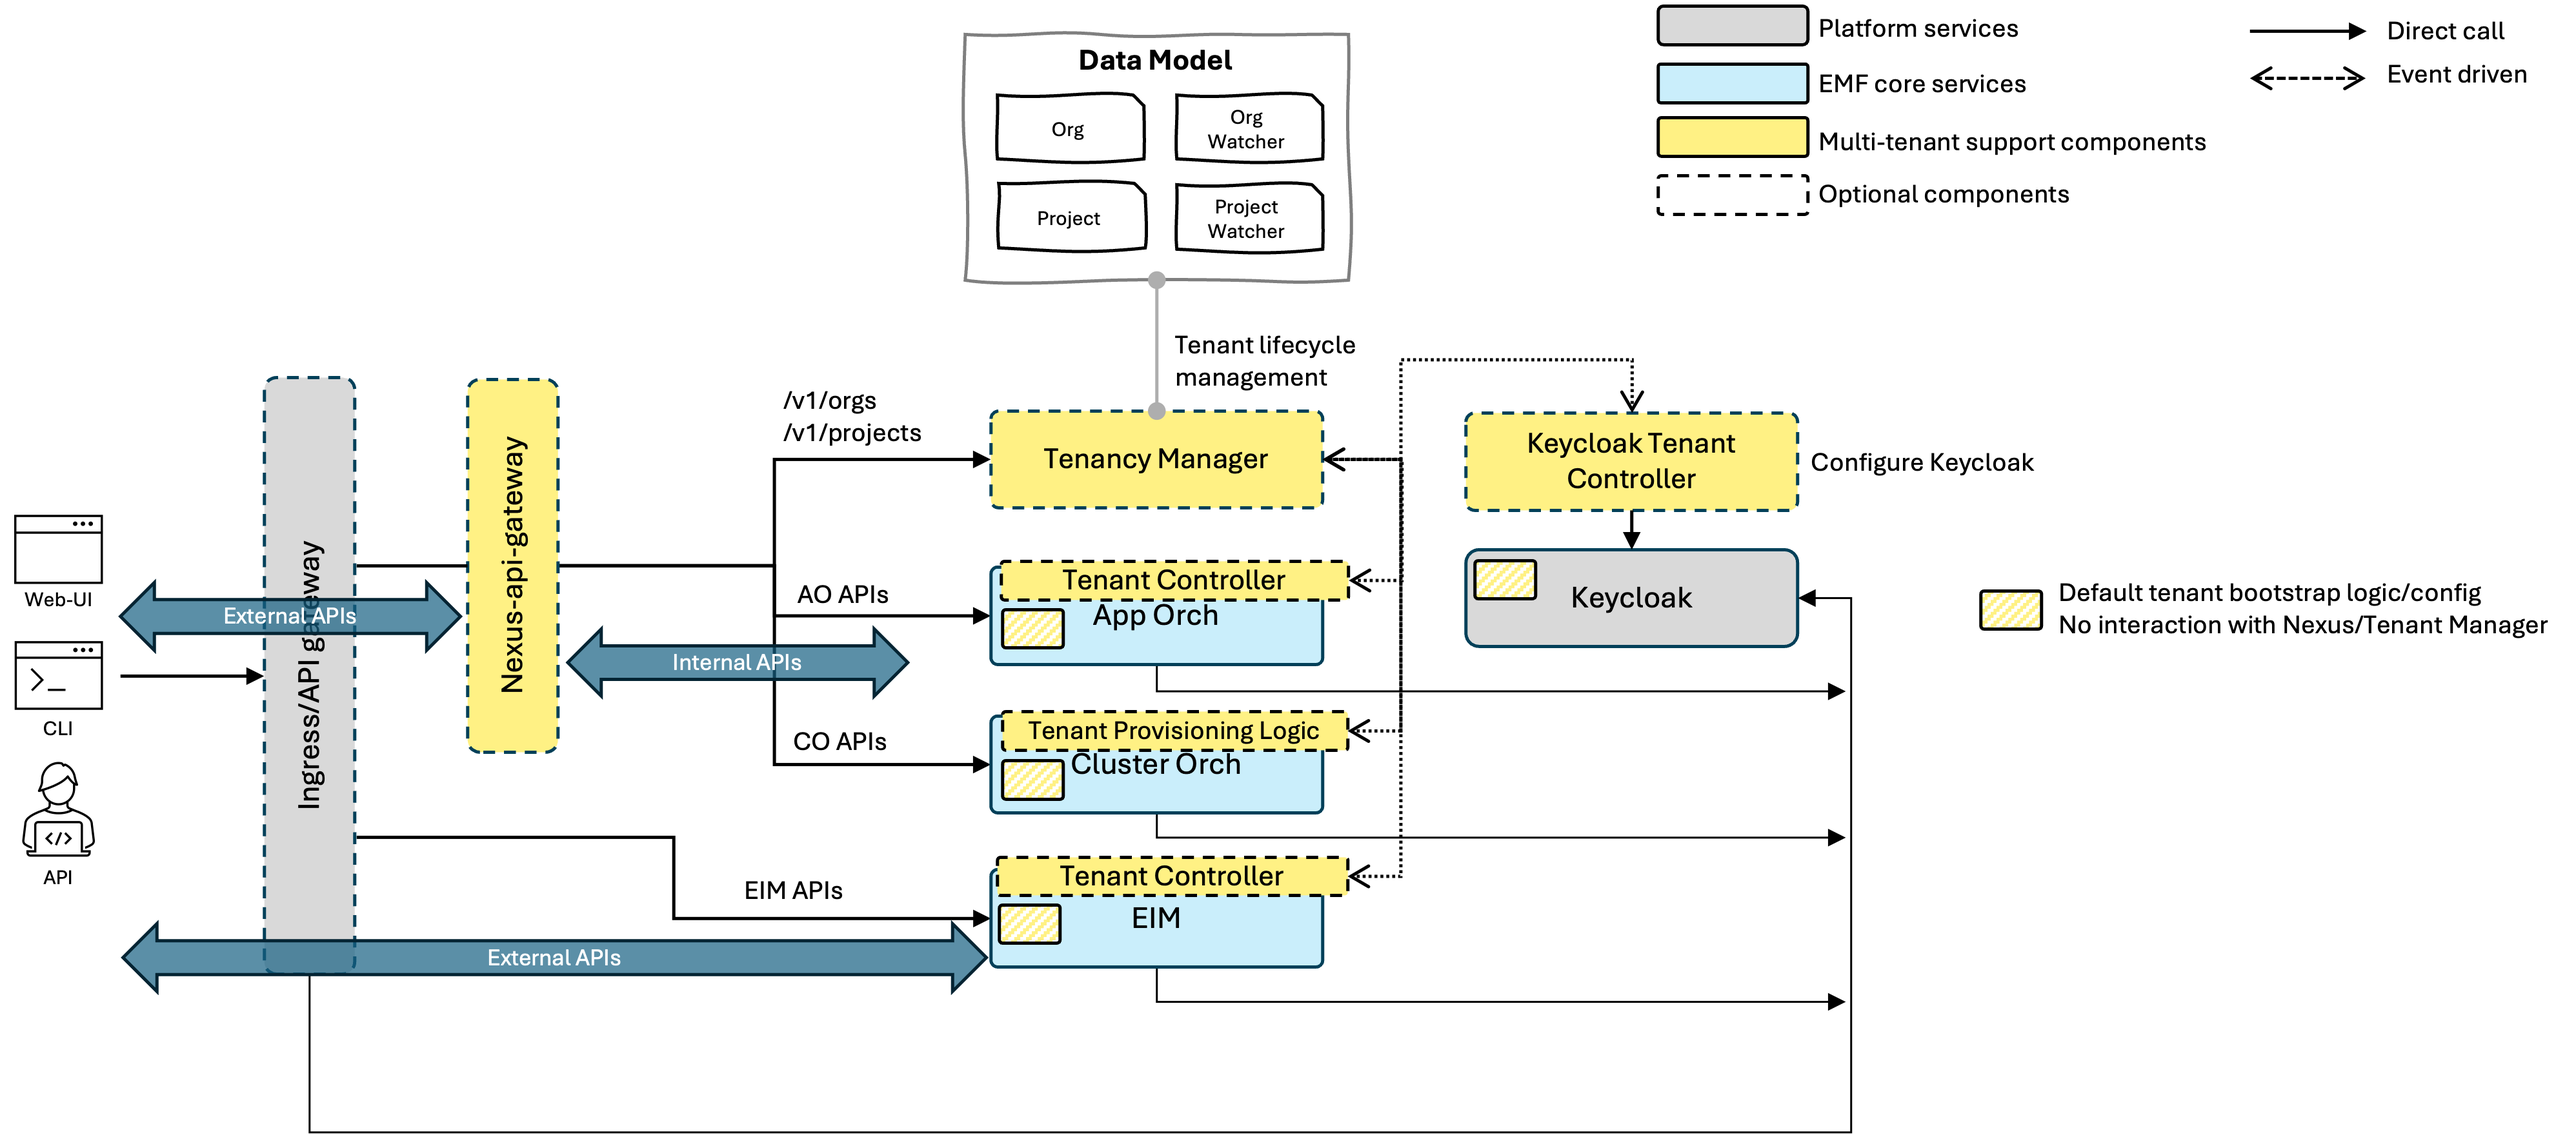
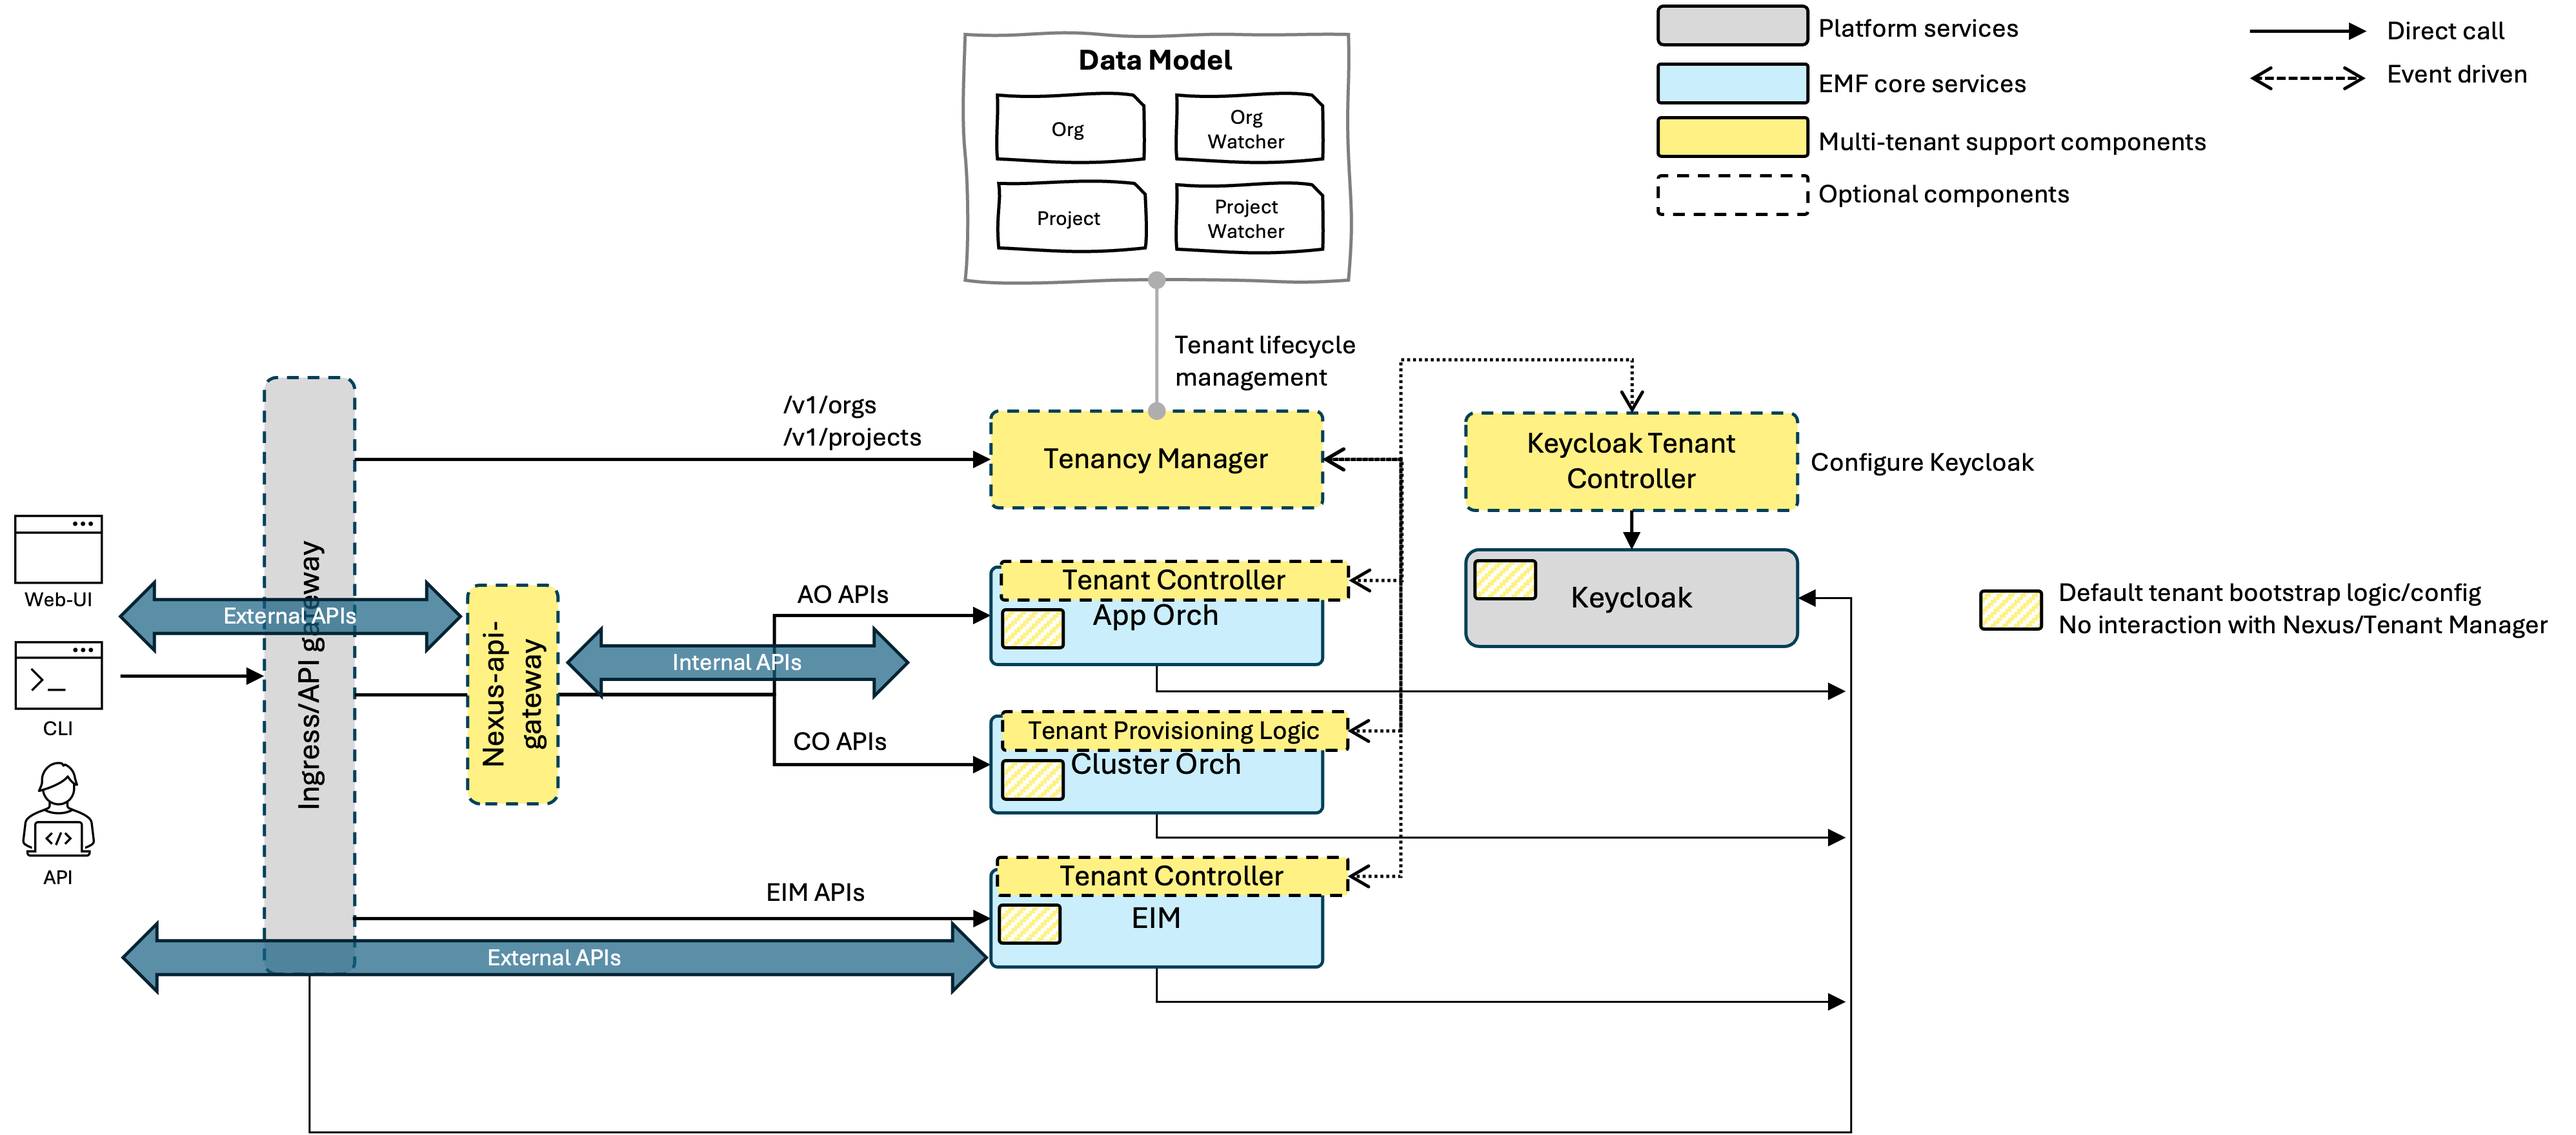
Priority update for tenant-manager NB implementation

Changed region(s): [[0.1553, 0.3125, 0.3106, 0.7188], [0.2796, 0.3438, 0.3727, 0.4062], [0.2796, 0.7812, 0.3417, 0.8125]]

diff --git a/design-proposals/platform-multi-tenancy-simplification.md b/design-proposals/platform-multi-tenancy-simplification.md
@@ -56,15 +56,12 @@ The current EMF architecture exhibits several key issues:
 
 ![new architecture](images/multi-tenancy-new-architecture.png)
 
-The proposed architecture is modular and flexible, focusing on these key changes:
+The proposed architecture introduces modularity and deployment flexibility through the following changes:
 
-- The Multi-tenant API Gateway is simplified to act only as an HTTP router for Tenant Manager APIs. In the short term,
-  it remains Nexus-based, with plans to re-implement it as a lightweight HTTP router in the future.
-- Core services (AO, CO, EIM) expose their APIs directly, removing the need for centralized API gateway coordination.
-- Multi-tenancy is configurable; Tenant Manager and controllers can be enabled or disabled per deployment.
-- When multi-tenancy is off, services initialize a default tenant and restrict API requests to the default project for
-  consistent logic.
-- Backward compatibility is maintained for seamless upgrades from existing multi-tenant deployments.
+- Elimination of the Multi-tenant API Gateway, allowing direct API exposure for all core services (App Orchestration, Cluster Orchestration, Infra Manager, Tenant Manager).
+- Multi-tenancy features are now optional and configurable; Tenant Manager and related controllers can be enabled or disabled based on deployment needs.
+- In single-tenant mode, services automatically provision a default tenant and project, ensuring consistent request handling without tenant management overhead.
+- Backward compatibility is preserved, enabling seamless upgrades for existing multi-tenant environments.
 
 This modular approach enables organizations to deploy EMF in single-tenant or multi-tenant modes, reducing complexity
 and adapting to varied infrastructure needs. Below are examples of how the new modular architecture enables flexible
@@ -107,16 +104,13 @@ unnecessary, offering a lightweight and efficient integration path.
 
 ### Core Changes
 
-#### Track 1: Reduce the scope of nexus-api-gateway
+#### Track 1: Remove nexus-api-gateway
 
-- Limit the nexus-api-gateway’s responsibility to routing only Tenant Manager APIs (`/v1/orgs`, `/v1/projects`).
-- Remove all API remapping configuration from nexus-api-gateway.
-- Add Traefik IngressRoute for EIM, AO, and CO APIs, allowing these services to expose their APIs directly.
-- Ensure that tenant-aware authentication and authorization are handled by the shared middleware (`orch-lib`) in each
-  service, not by the gateway.
-- Gradually deprecate legacy gateway features as services transition to direct API exposure.
-- Validate that existing multi-tenant workflows continue to function as expected through integration and regression
-  testing.
+- Develop RESTful API endpoints for Tenant Manager (`/v1/orgs`, `/v1/projects`).
+- Configure Traefik IngressRoutes for direct API exposure of Tenant Manager, Infra Manager, App Orchestration, and Cluster Orchestration services.
+- Shift tenant-aware authentication and authorization to the shared middleware (`orch-lib`) within each service.
+- Phase out legacy gateway features as services migrate to direct API access.
+- Perform integration and regression testing to ensure multi-tenant workflows remain functional.
 
 ##### Step 1: Foundation
 
@@ -140,13 +134,20 @@ features:
 - Remove EIM-specific API mapping from the `nexus-api-gateway` configuration.
 - Update CO to use EIM’s external APIs for inventory operations.
 
-##### Step 3: CO and AO Modernization
+##### Step 3: Tenant Manager Modernization
+
+- Implement a standalone HTTP server/router for the Tenant Manager, exposing RESTful endpoints at `/v1/orgs` and `/v1/projects`.
+- Create Traefik IngressRoute to route “PathRegexp(`/v1/orgs`, `/v1/projects`)” to the new Tenant Manager API.
+- Ensure authentication and authorization.
+- Perform integration testing to validate multi-tenant workflows and backward compatibility.
+
+##### Step 4: CO and AO Modernization
 
 - Refactor App Orchestration (AO) and Cluster Orchestration (CO) to adopt the modular architecture, following the EIM
   approach.
 - Complete the transition to the target architecture with all services decoupled from the legacy gateway.
 
-##### Step 4: Cleanup
+##### Step 5: Cleanup
 
 - Remove legacy code paths and deprecated components.
 - Finalize documentation for deployment and migration.
